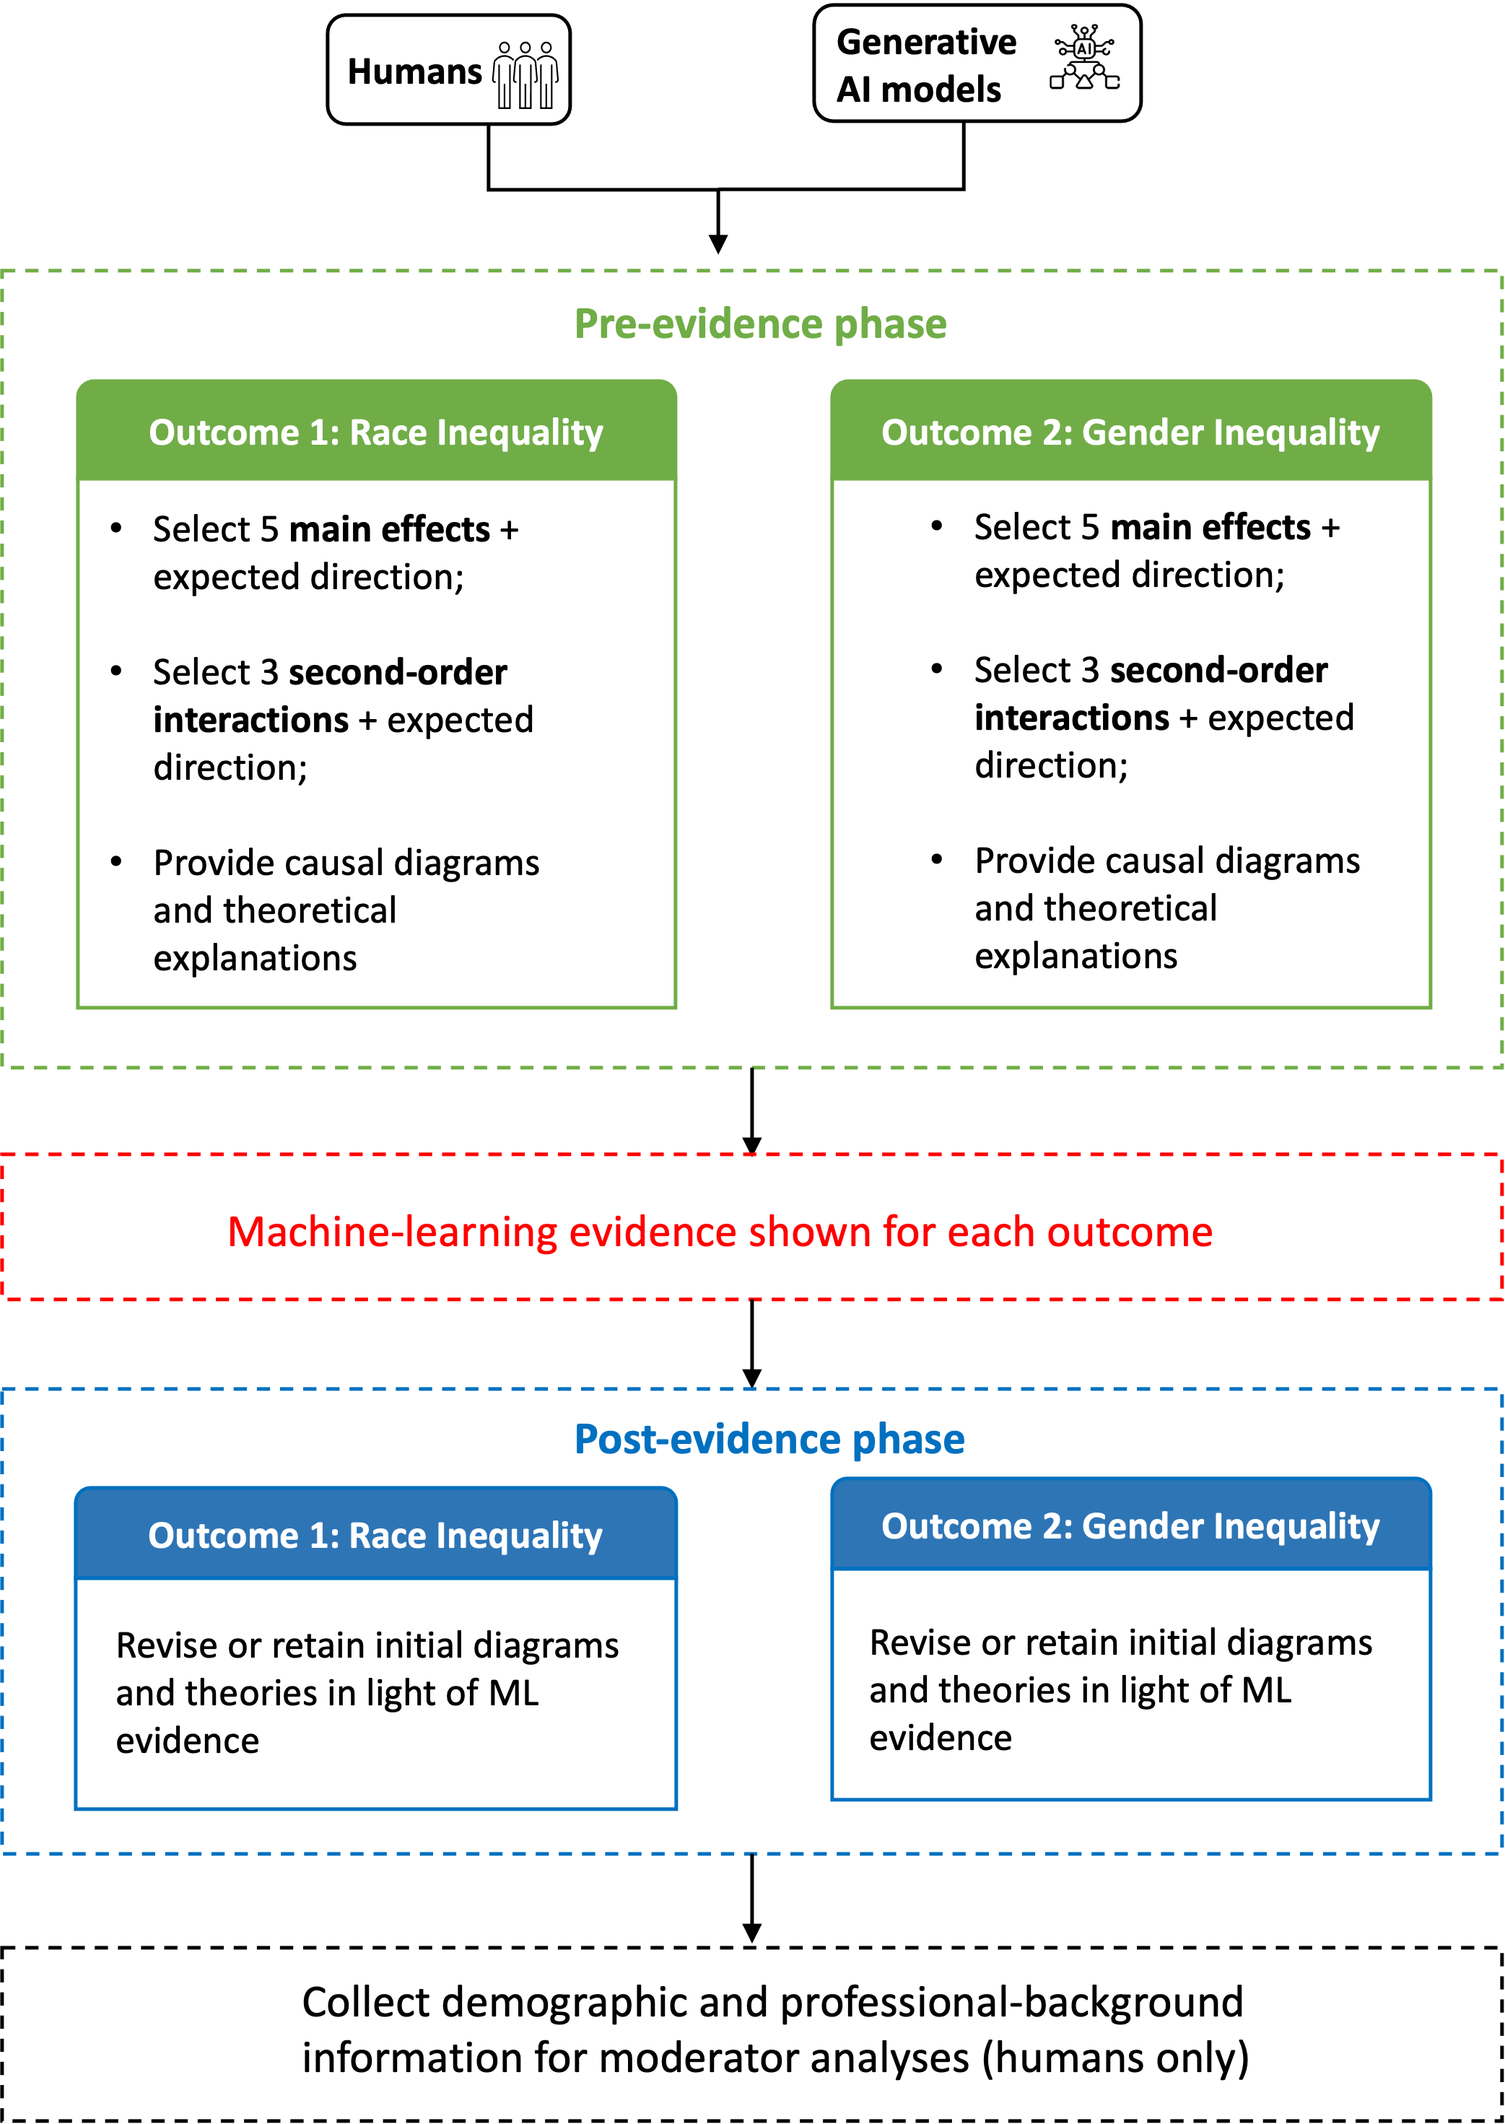
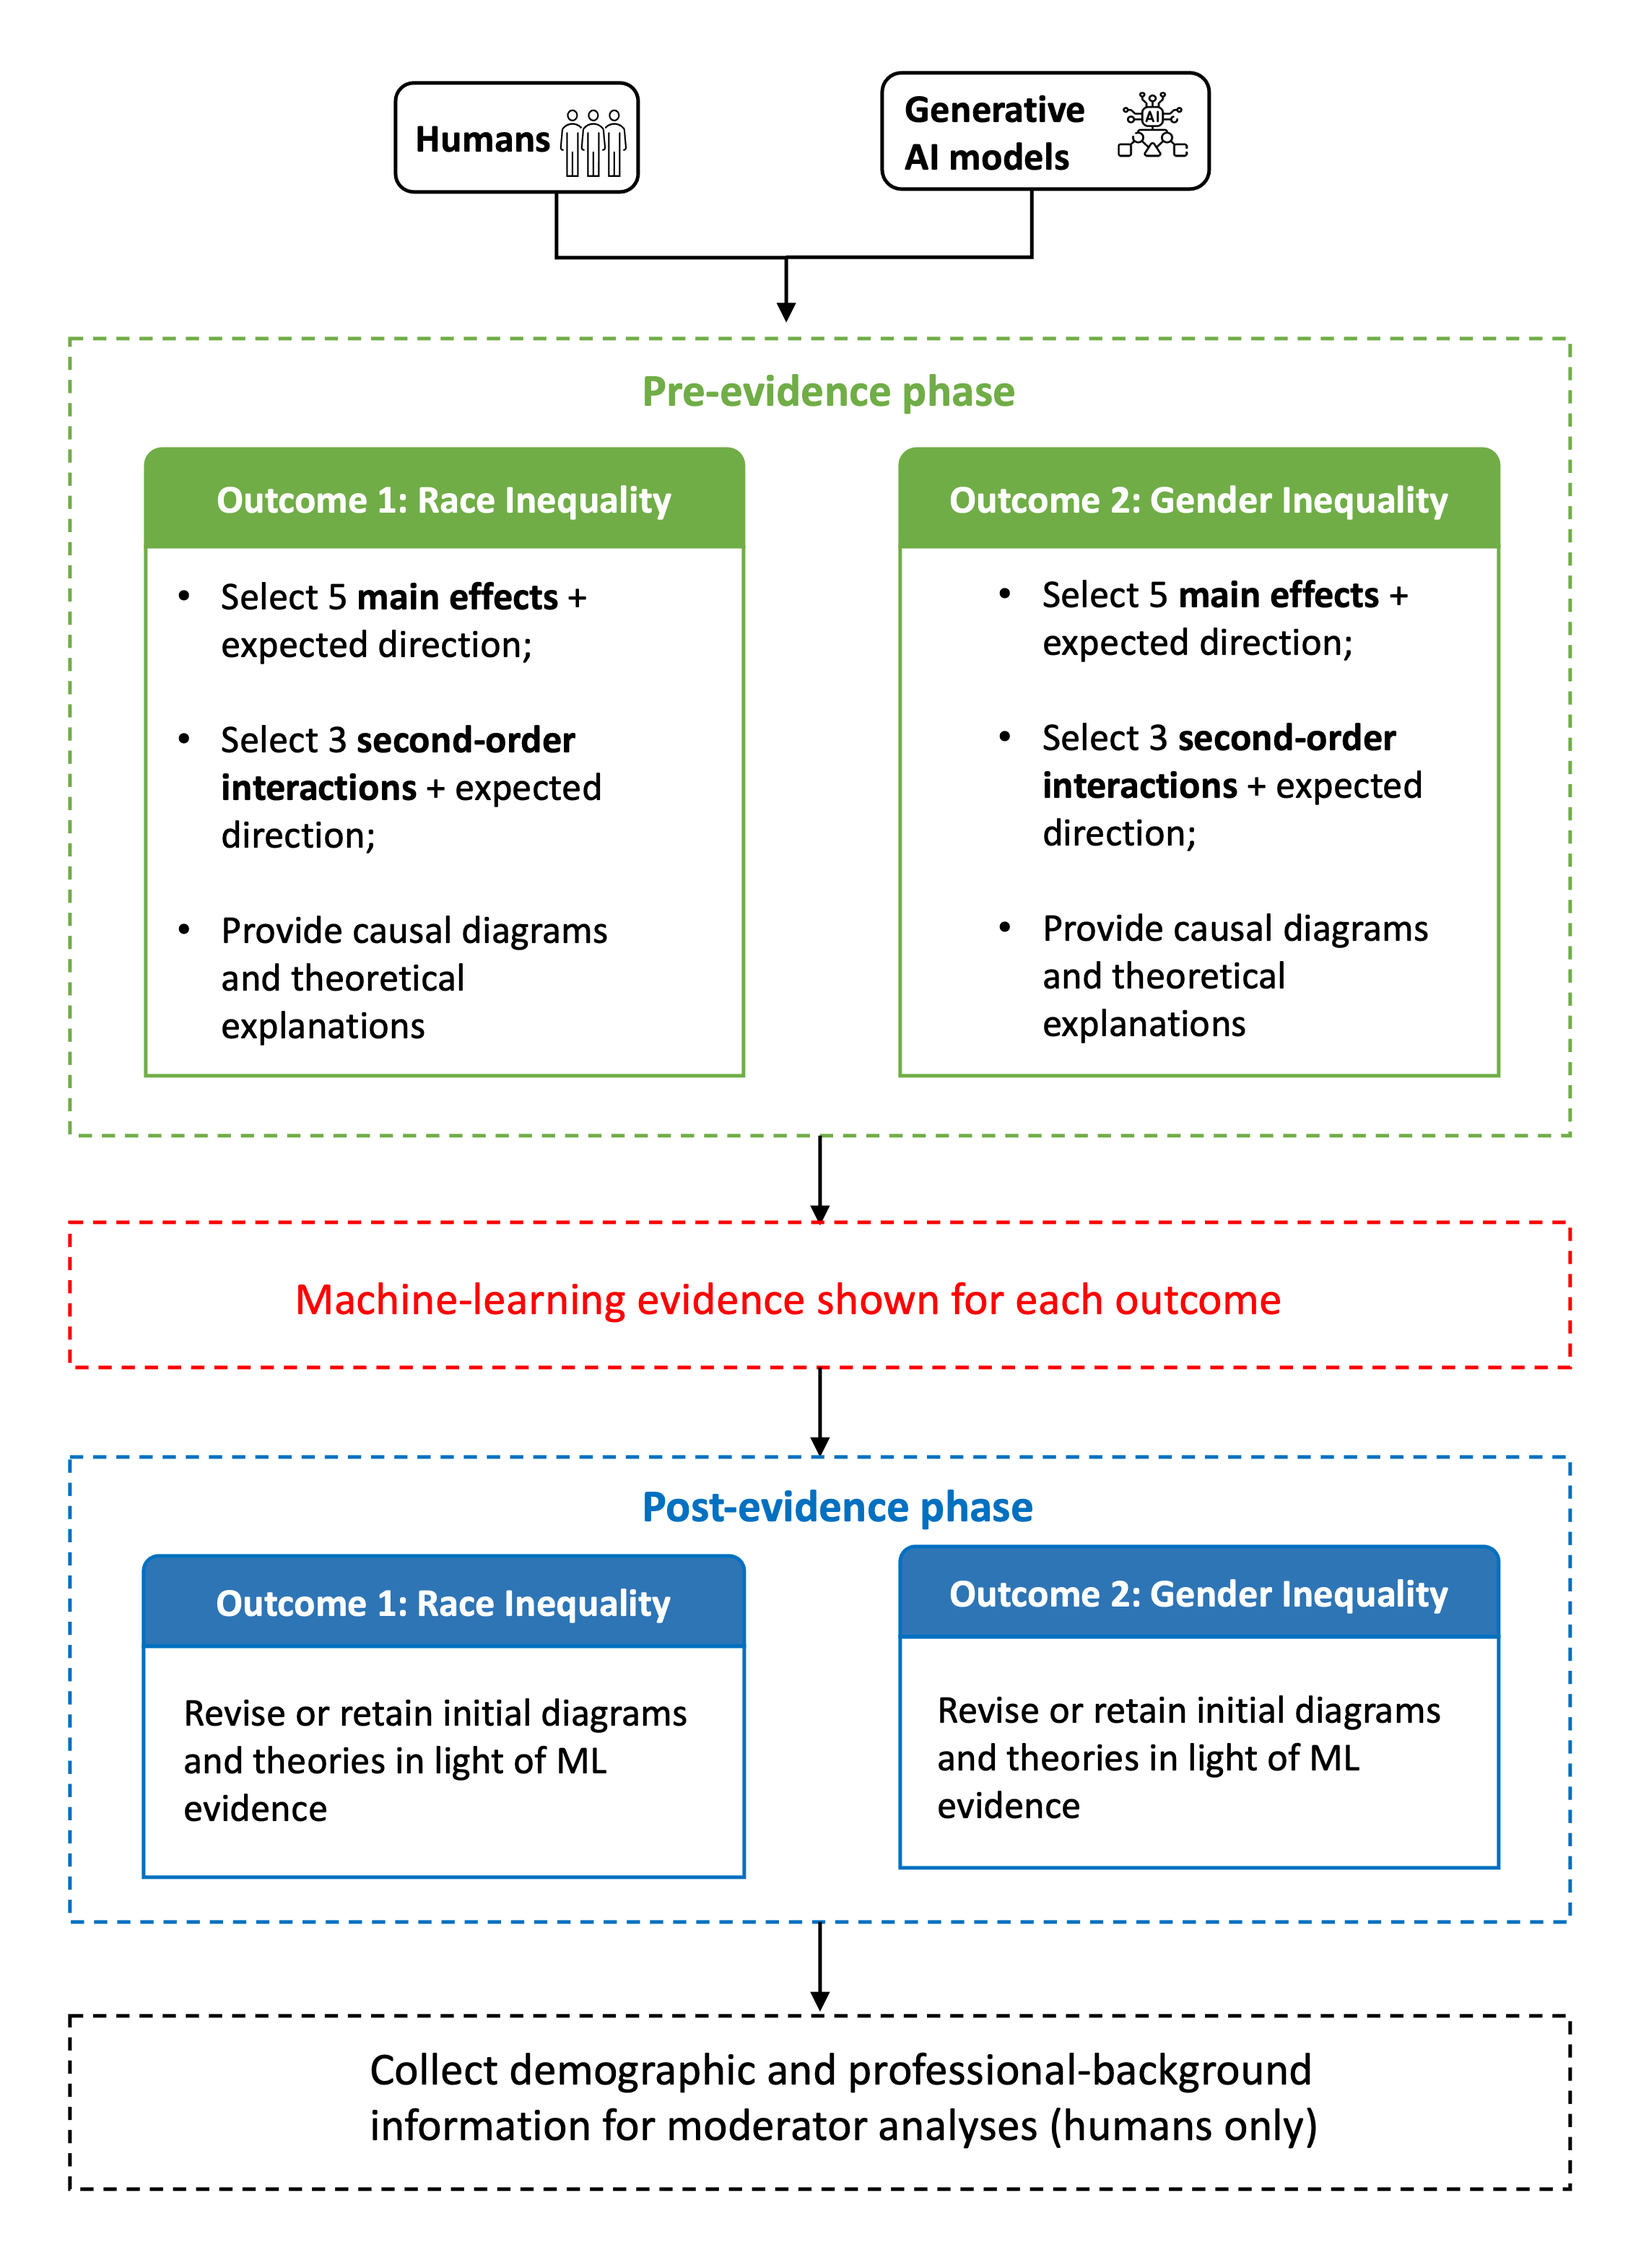
Restore white margin around the survey flow figure.
Pad the PNG and add figure padding so the diagram is not flush to the card edge.

diff --git a/survey.html b/survey.html
@@ -115,7 +115,7 @@
           <h3 class="guide-subtitle">Survey flow</h3>
           <figure class="demo-figure survey-flow-figure">
             <img
-              src="assets/survey-flow.png?v=3"
+              src="assets/survey-flow.png?v=4"
               alt="Survey flow: pre-evidence and post-evidence phases for race and gender inequality, with machine-learning evidence in between."
               loading="lazy"
             />

diff --git a/css/app.css b/css/app.css
@@ -845,6 +845,7 @@ body.section-network-active .main {
 .survey-flow-figure {
   background: #fff;
   max-width: min(100%, 720px);
+  padding: 1.1rem 1.15rem 1.25rem;
 }
 
 .survey-flow-figure img {

diff --git a/css/main.v4.css b/css/main.v4.css
@@ -845,6 +845,7 @@ body.section-network-active .main {
 .survey-flow-figure {
   background: #fff;
   max-width: min(100%, 720px);
+  padding: 1.1rem 1.15rem 1.25rem;
 }
 
 .survey-flow-figure img {

diff --git a/css/styles.css b/css/styles.css
@@ -845,6 +845,7 @@ body.section-network-active .main {
 .survey-flow-figure {
   background: #fff;
   max-width: min(100%, 720px);
+  padding: 1.1rem 1.15rem 1.25rem;
 }
 
 .survey-flow-figure img {
